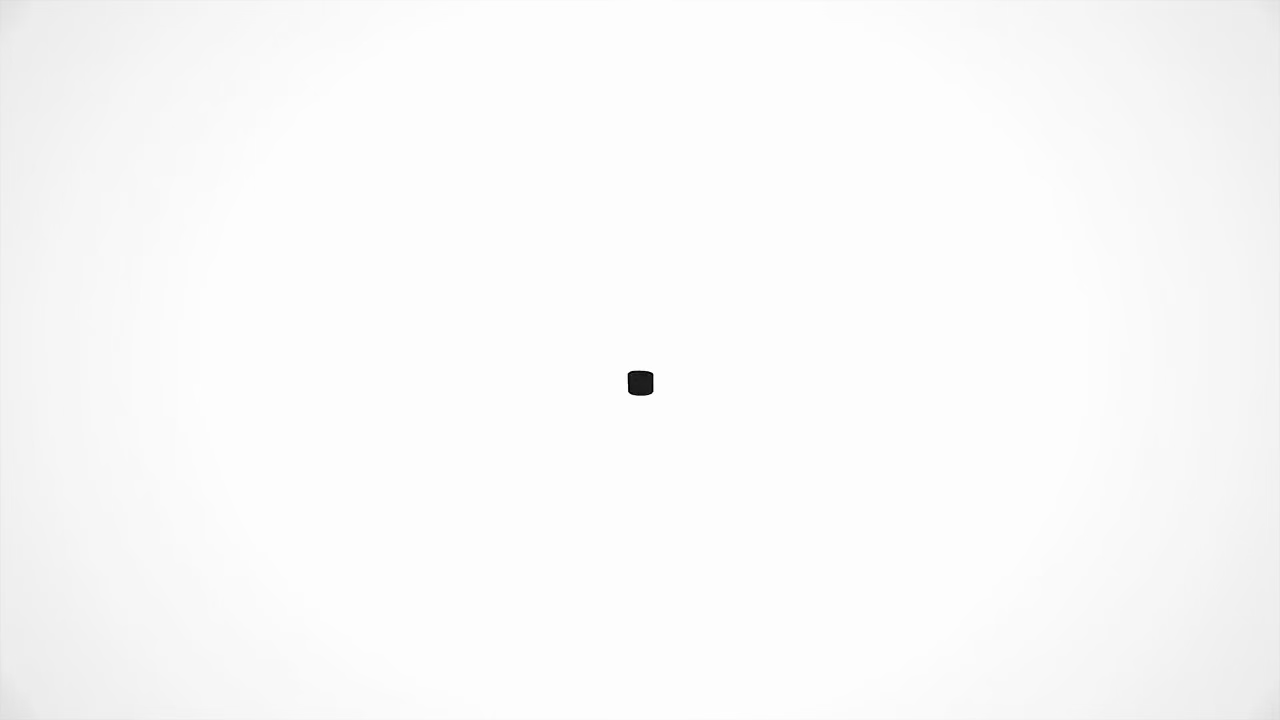
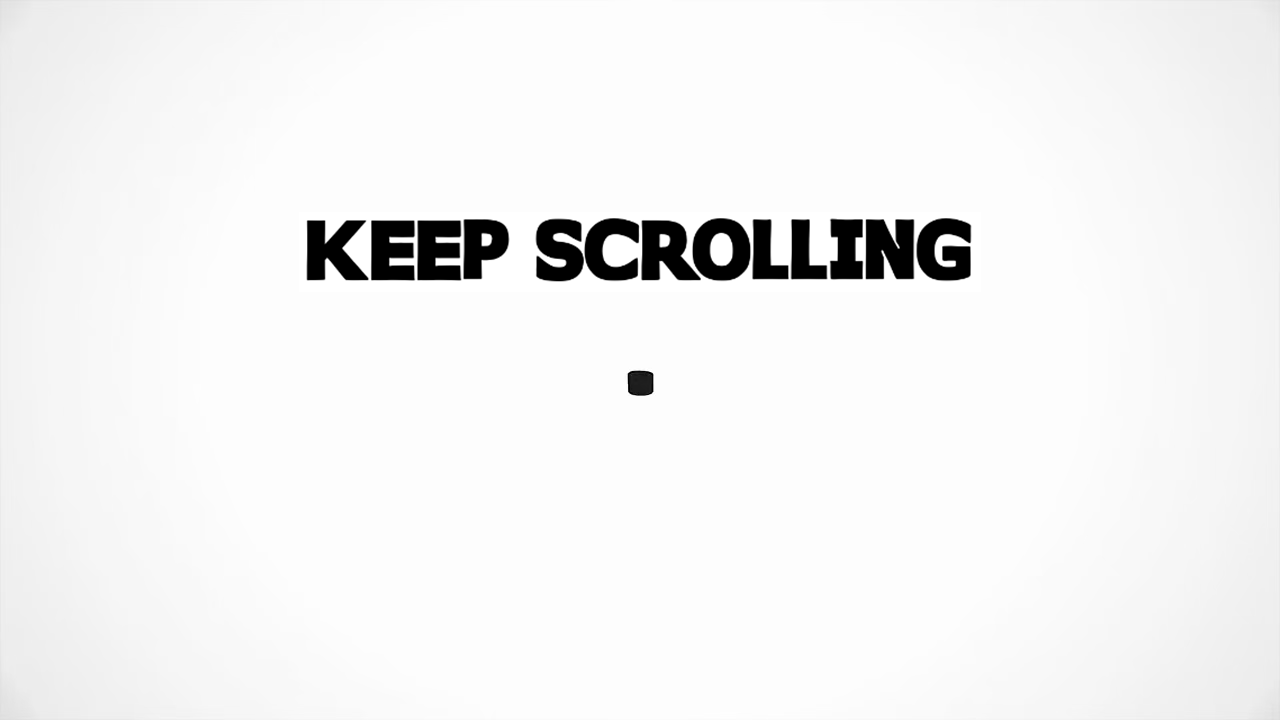
changing the first 5 frames and gasp animation

Changed region(s): [[0.2188, 0.3056, 0.7812, 0.3972]]

diff --git a/js/collaborate.js b/js/collaborate.js
@@ -68,12 +68,29 @@ getImages();*/
 
 gsap.registerPlugin(ScrollTrigger);
 
+/*
 gsap.to(frame, {
 	frame: (FRAMES - initialFrame) - 1,
 	snap: 'frame',
 	scrollTrigger: {
 		start: 'top top',
 		end: '+=300%',
+		scrub: true,
+		invalidateOnRefresh: true, // Ensures it recalculates on resize
+	},
+	onUpdate: () => {
+		render();
+	},
+});*/
+
+gsap.to(frame, {
+	frame: (FRAMES - initialFrame) - 1,
+	snap: 'frame',
+	scrollTrigger: {
+		trigger: '.two', // Use a section before .final as the trigger
+		start: 'top top', // Start when the trigger hits the top of the viewport
+		endTrigger: '.final', // End when .final comes into view
+		end: 'top center', // End when the top of .final reaches the center of the viewport
 		scrub: true,
 		invalidateOnRefresh: true, // Ensures it recalculates on resize
 	},
@@ -163,7 +180,7 @@ gsap.to('.four', {
 gsap.to('.final', {
 	scrollTrigger: {
 		trigger: '.final',
-		start: 'top center',
+		start: 'top top',
 		end: '+=100%',
 		scrub: 1,
 		pin: true,

diff --git a/collaborate.html b/collaborate.html
@@ -56,7 +56,7 @@
 	<div class="Header-swimlane-Text">ROOTING RESEARCH &#8482;</div>
 	<canvas id="canvas-collab"> </canvas>
 	<section class="page two"></section>
-	<section class="page three"></section>
+	<!--<section class="page three"></section> -->
 	<!--<section class="page four"></section> -->
 	<section class="final">
 		<div class="career-container">

diff --git a/css/collab.css b/css/collab.css
@@ -113,7 +113,7 @@ section {
 }
 
 .page {
-	height: 200vh;
+	height: 100vh;
 }
 
 
